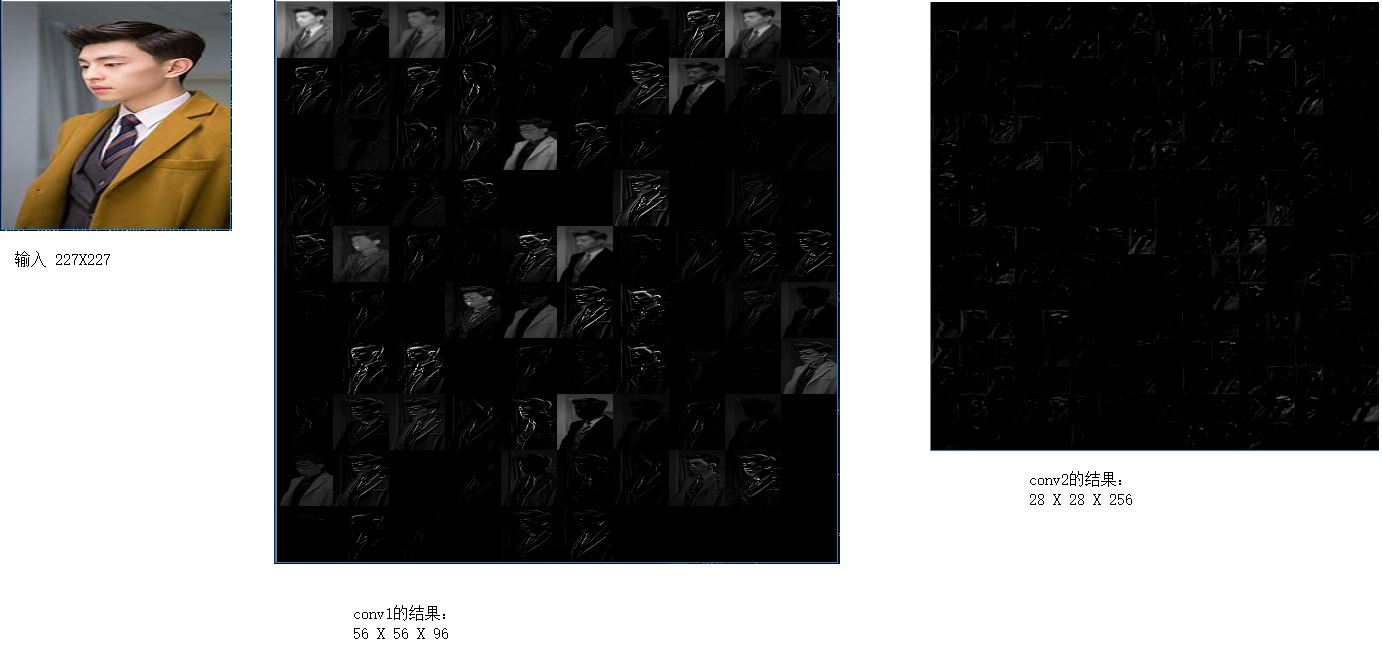
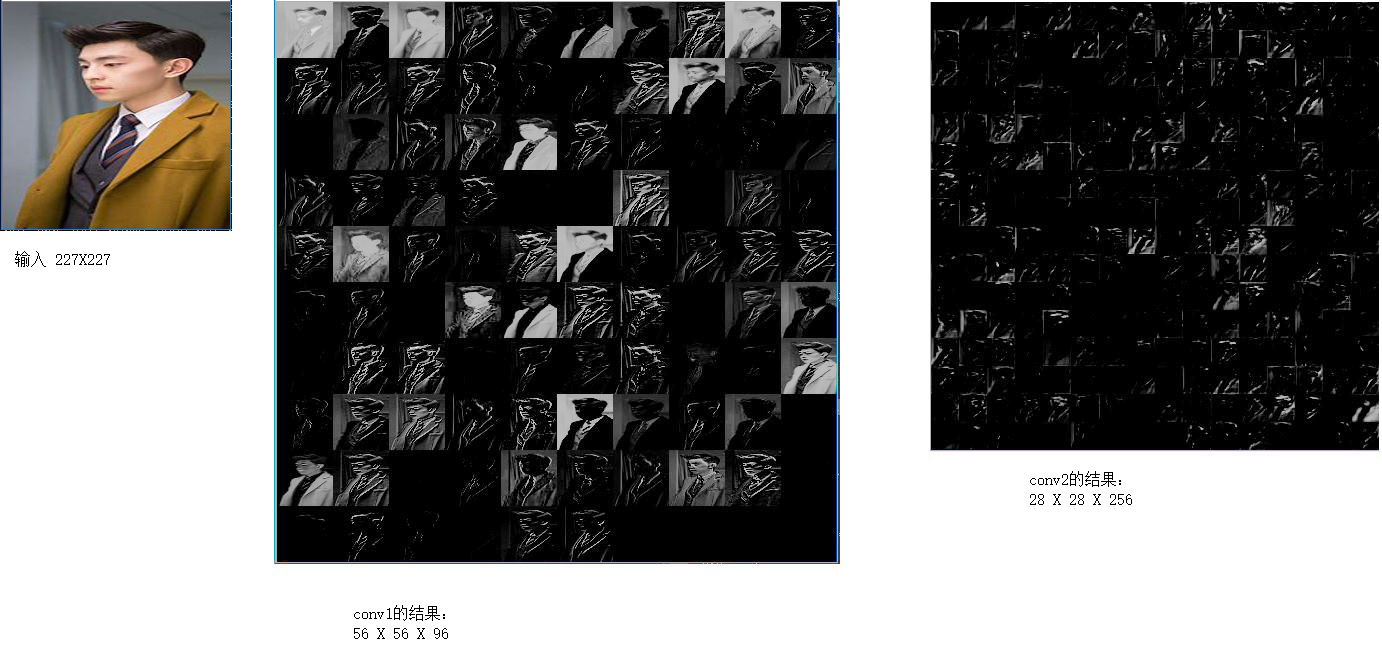
x

diff --git a/神经网络与深度学习读书笔记.md b/神经网络与深度学习读书笔记.md
@@ -1613,7 +1613,7 @@ int index1 = get_blob_index(net, "pool1");
 check_conv_blob(net->blobs()[index1]);
 ```
 
-输出如下，似乎看不出什么东西来：
+输出如下（为了看得更清楚，右边的feature map提亮了），似乎看不出什么直观的特征来：
 
 ![](img/dnn_ml/visual3.jpg)
 
